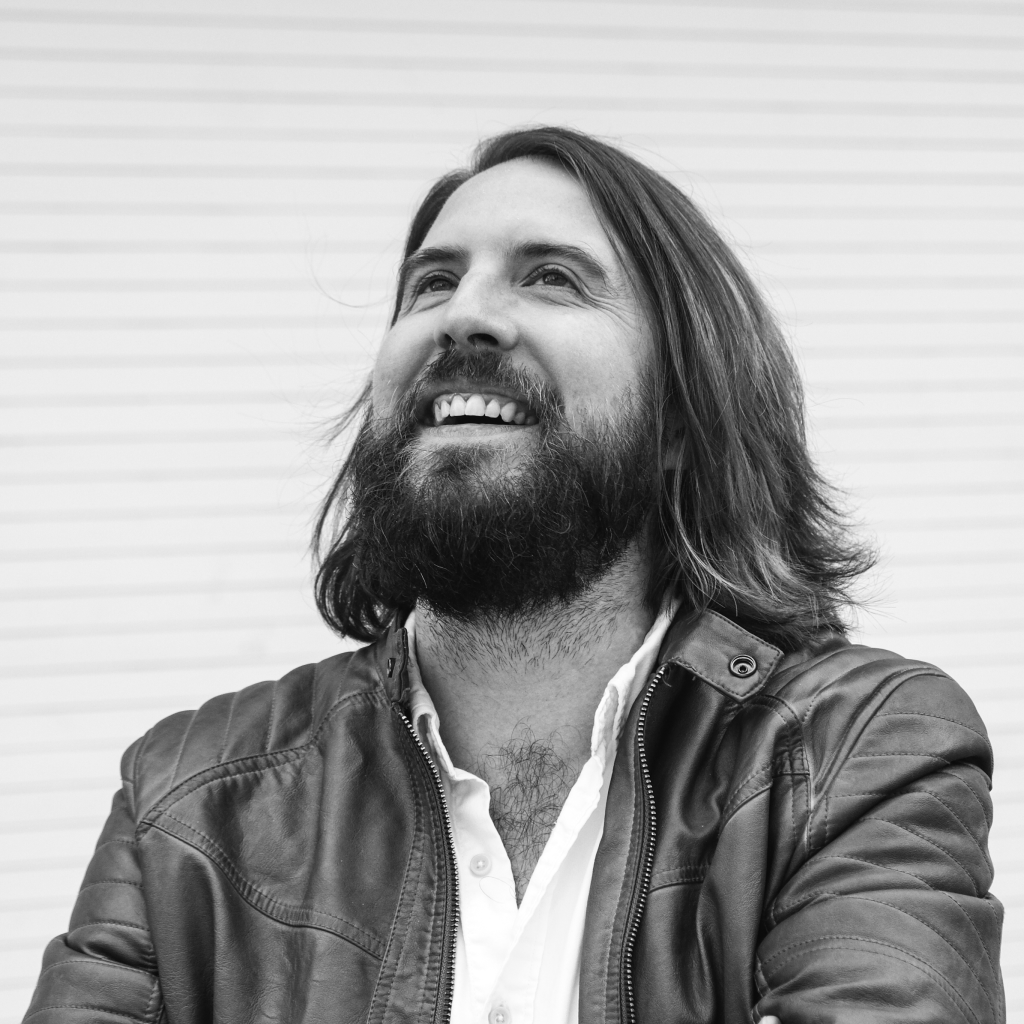
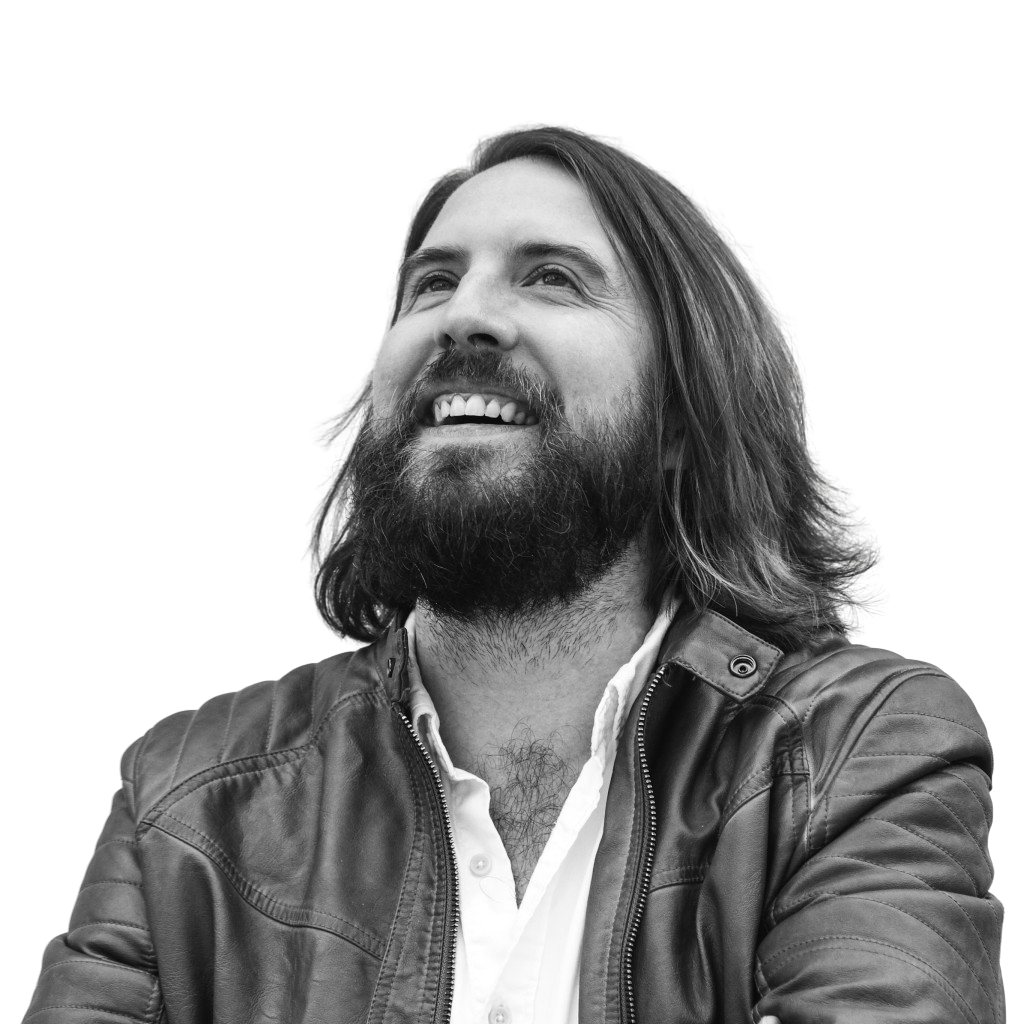
yellow photo bg why not

diff --git a/main.css b/main.css
@@ -448,6 +448,7 @@ article footer > * {
 }
 .nevan::before {
   aspect-ratio: 1;
+  background-color: #fcd34d;
   background-size: cover;
   background-image: url(/nevan.png);
   border-radius: 50%;
@@ -488,7 +489,8 @@ article footer > * {
   font-weight: 550;
 }
 .bio img {
-  border-radius: var(--space-2xs);
+  background-color: #fcd34d;
+  border-radius: 9999px;
 }
 
 .listing {
